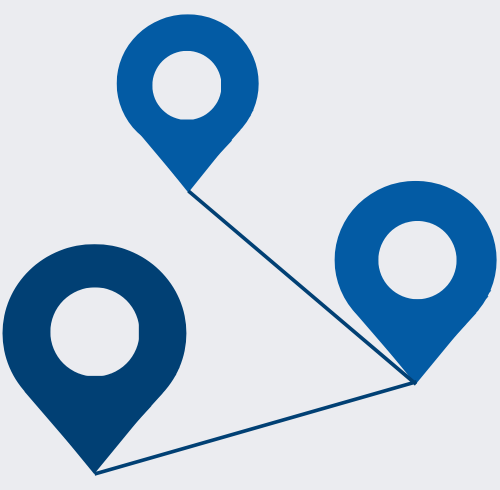
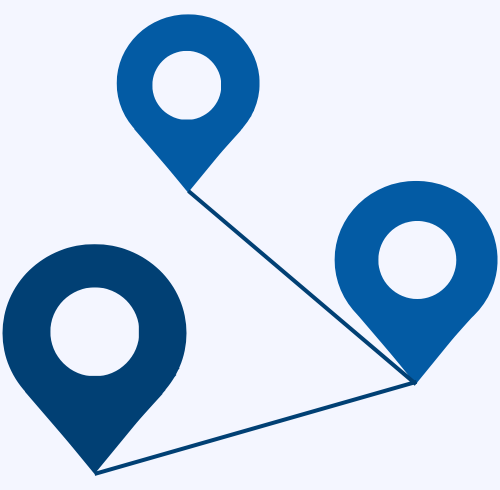
Make Home page, Footer and Navbar responsive
-Add media query breakpoints

-Change journey and station images

diff --git a/src/components/HomePage/homepage.module.css b/src/components/HomePage/homepage.module.css
@@ -7,56 +7,46 @@
     justify-content: center;
     line-height: 27px;
     padding: 7rem 3rem 8rem;
-
-      /* border: 1px solid #ccc; */
-
   }
-  .widthContainer {
-    max-width: 1000px;
-    display: flex;
-  }
-
 
   .stationContent {
     margin-right: 8rem;
     text-align: left;
   }
 
-  .imageContainer {
-    flex-shrink: 0;
-  }
-
   .stationImage {
-    width: 14rem;
+    height: 15rem;
   }
-
 
   /* .................Journey Section..................*/
-
   .journeySection {
     align-items: center;
-    background-color: #EBECF0;
-    /* background-color: #8ea3f5; */
+    background-color: #F4F6FF;
     font-size: 18px;
     display: flex;
     justify-content: center;
     line-height: 27px;
     padding: 7rem 3rem 8rem;
-    border: 1px solid #ccc;
   }
 
   .journeyContent {
-    /* flex: 1; */
     margin-left: 8rem;
     text-align: left;
   }
 
   .journeyImage {
-    width: 15rem;
+    height: 15rem;
   }
 
-
   /* .................Common..................*/
+  .widthContainer {
+    display: flex;
+    max-width: 1000px;
+  }
+
+  .imageContainer {
+    flex-shrink: 0;
+  }
 
   .head {
     margin-bottom: 16px;
@@ -65,3 +55,107 @@
   .para {
     margin-bottom: 32px;
   }
+
+  /* ...............Media Query................*/
+
+  /* ...XL...*/
+  @media only screen and (max-width: 1155px) {
+    .widthContainer {
+      padding: 0 3%;
+    }
+  }
+
+  /* ...L...*/
+  @media only screen and (max-width: 992px) {
+    .stationContent {
+      margin-right: 5rem;
+    }
+    .journeyContent {
+      margin-left: 5rem;
+    }
+    .stationImage {
+      height: 12rem;
+    }
+    .journeyImage {
+      height: 12rem;
+    }
+  }
+
+  /* ...M...*/
+  @media only screen and (max-width: 768px) {
+    .stationContent {
+      margin-right: 4rem;
+    }
+    .journeyContent {
+      margin-left: 5rem;
+    }
+    .stationImage {
+      height: 10rem;
+    }
+    .journeyImage {
+      height: 10rem;
+    }
+  }
+
+  @media only screen and (max-width: 715px) {
+    .stationContent {
+      font-size: 16px;
+      margin-right: 2rem;
+    }
+    .journeyContent {
+      font-size: 16px;
+      margin-left: 3rem;
+    }
+    .widthContainer {
+      padding: 0 2%;
+    }
+    .stationImage {
+      height: 6rem;
+    }
+    .journeyImage {
+      height: 6rem;
+    }
+    .imageContainer {
+      flex-shrink: 0;
+      display: flex;
+      align-items: center;
+      padding-bottom: 2rem;
+    }
+  }
+
+  /* ...S...*/
+  @media only screen and (max-width: 561px) {
+    .stationSection {
+      padding: 13% 8% 13%;
+    }
+    .journeySection {
+      padding: 13% 8% 13%;
+    }
+    .widthContainer {
+      padding: 0;
+    }
+    .imageContainer {
+      display: none;
+    }
+    .stationContent {
+      margin-right: 0;
+    }
+    .journeyContent {
+      margin-left: 0;
+    }
+  }
+
+    /* ...XS...*/
+    @media only screen and (max-width: 428px) {
+      .stationContent {
+        font-size: 14px;
+      }
+      .journeyContent {
+        font-size: 14px;
+      }
+      .para {
+        margin-bottom: 16px;
+      }
+    }
+
+

diff --git a/src/components/Footer.module.css b/src/components/Footer.module.css
@@ -1,45 +1,60 @@
 
- .footer {
-    background-color: #333;
-    font-size: large;
-    padding: 4rem 0;
-    display: flex;
-    justify-content: center;
-  }
-  
-  .footerContent {
-    color: #cacbcc;
-    display: flex;
-  }
+.footer {
+  background-color: #333;
+  font-size: large;
+  padding: 4rem 0;
+  display: flex;
+  justify-content: center;
+}
 
-  .footerContent a {
-    color: #cacbcc;
-    text-align: left;
-  }
+.footerContent {
+  color: #cacbcc;
+  display: flex;
+}
 
-  .footerContent a:hover {
-    color: #fff;
-  }
+.footerContent a {
+  color: #cacbcc;
+  text-align: left;
+}
 
+.footerContent a:hover {
+  color: #fff;
+}
+
+.contentSection {
+  margin: 0 30px;
+  max-width: 1000px;
+  display: flex;
+  align-items: center;
+}
+
+.iconSection {
+  margin-right: 20px;
+}
+
+.textSection {
+  text-align: left;
+}
+
+.footerText {
+  margin-bottom: 2px;
+  display: block;
+}
+
+@media only screen and (max-width: 625px) {
   .contentSection {
-    margin: 0 30px;
-    max-width: 1000px;
-    display: flex;
-    align-items: center;
+    margin: 0 1rem;
   }
+}
 
-  .iconSection {
-    margin-right: 20px;
-  }
-
-  .textSection {
-    text-align: left;
-  }
-  
-  .footerText {
-    margin-bottom: 2px;
+@media only screen and (max-width: 586px) {
+  .footerContent {
     display: block;
   }
+  .contentSection {
+    margin: 1rem 0;
+  }
+}
 
 
 

diff --git a/src/components/Navbar.jsx b/src/components/Navbar.jsx
@@ -5,8 +5,8 @@ import Navbar from 'react-bootstrap/Navbar';
 function NavigationBar() {
 
   const containerStyle = {
-    maxWidth: 1090,
-    padding: '0 48px',
+    maxWidth: 1440,
+    padding: '0 8%',
     margin: 'auto'
   };
 
